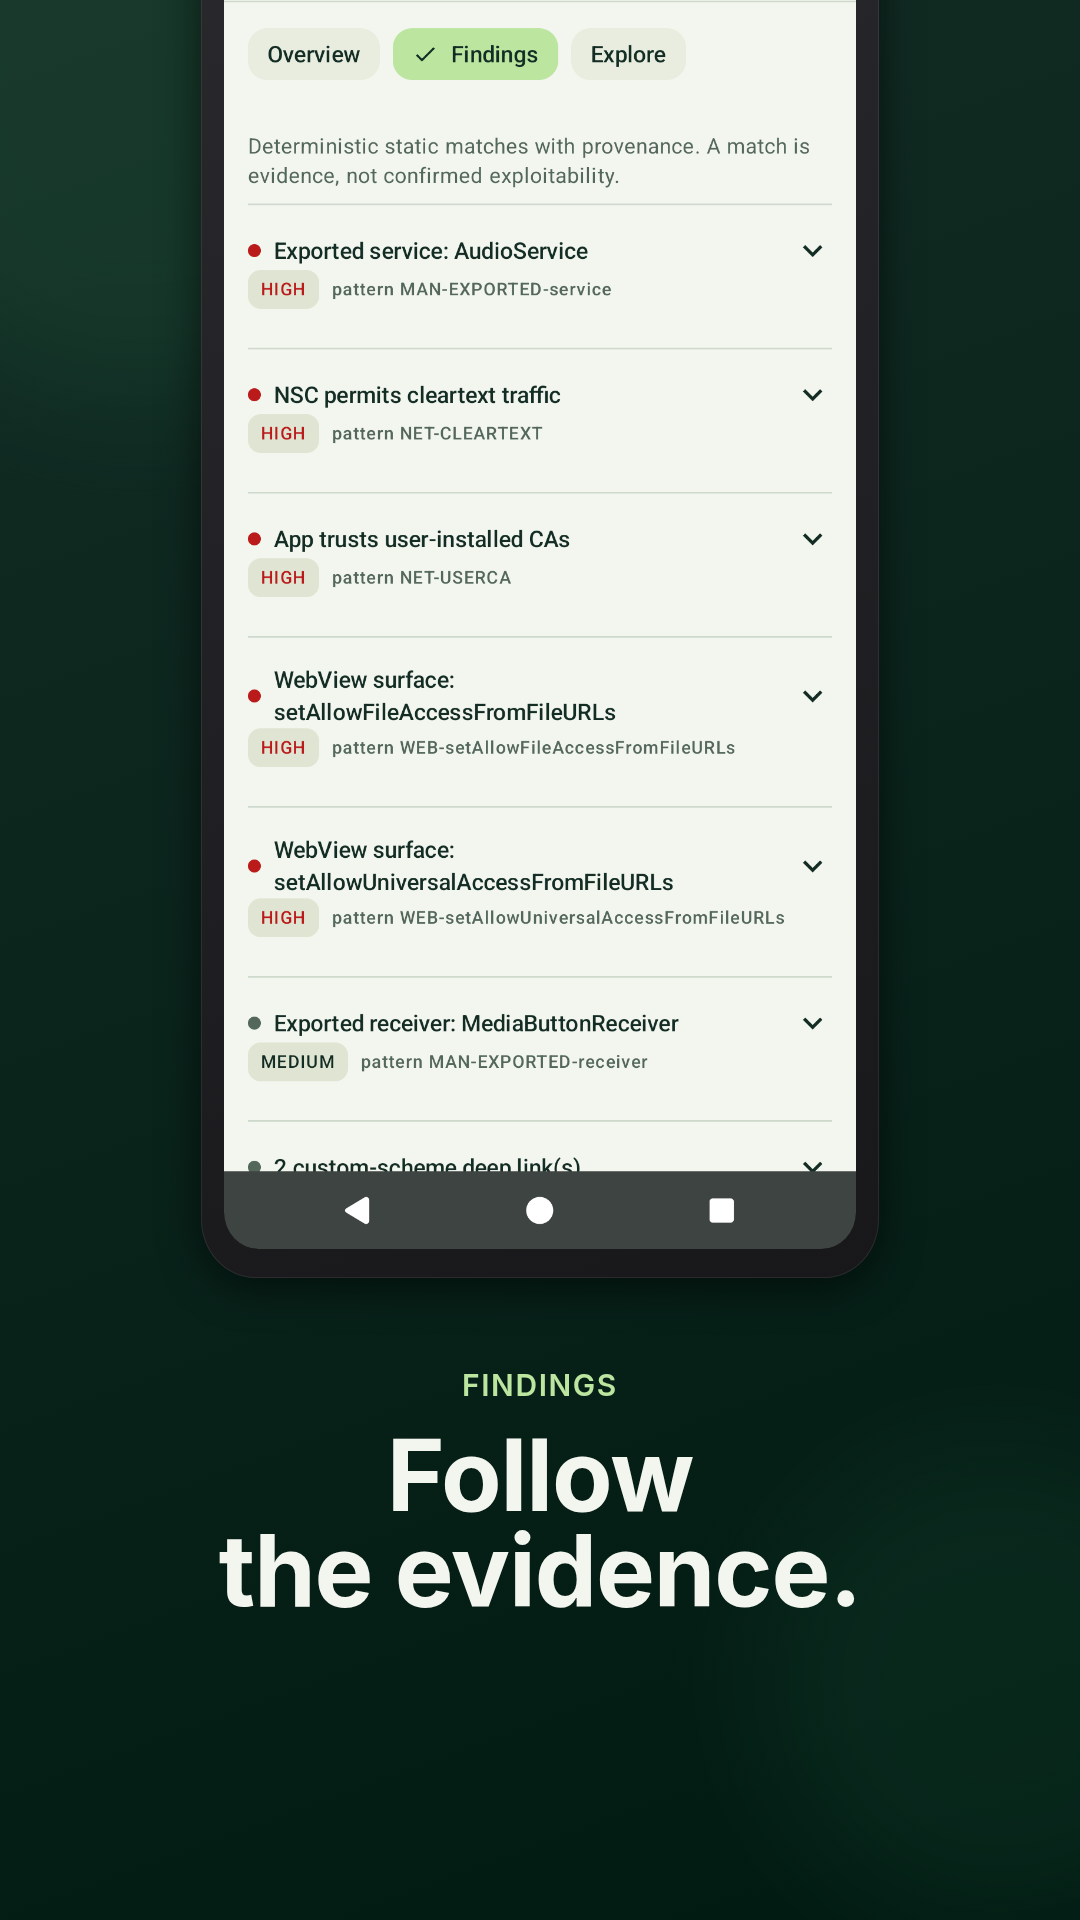
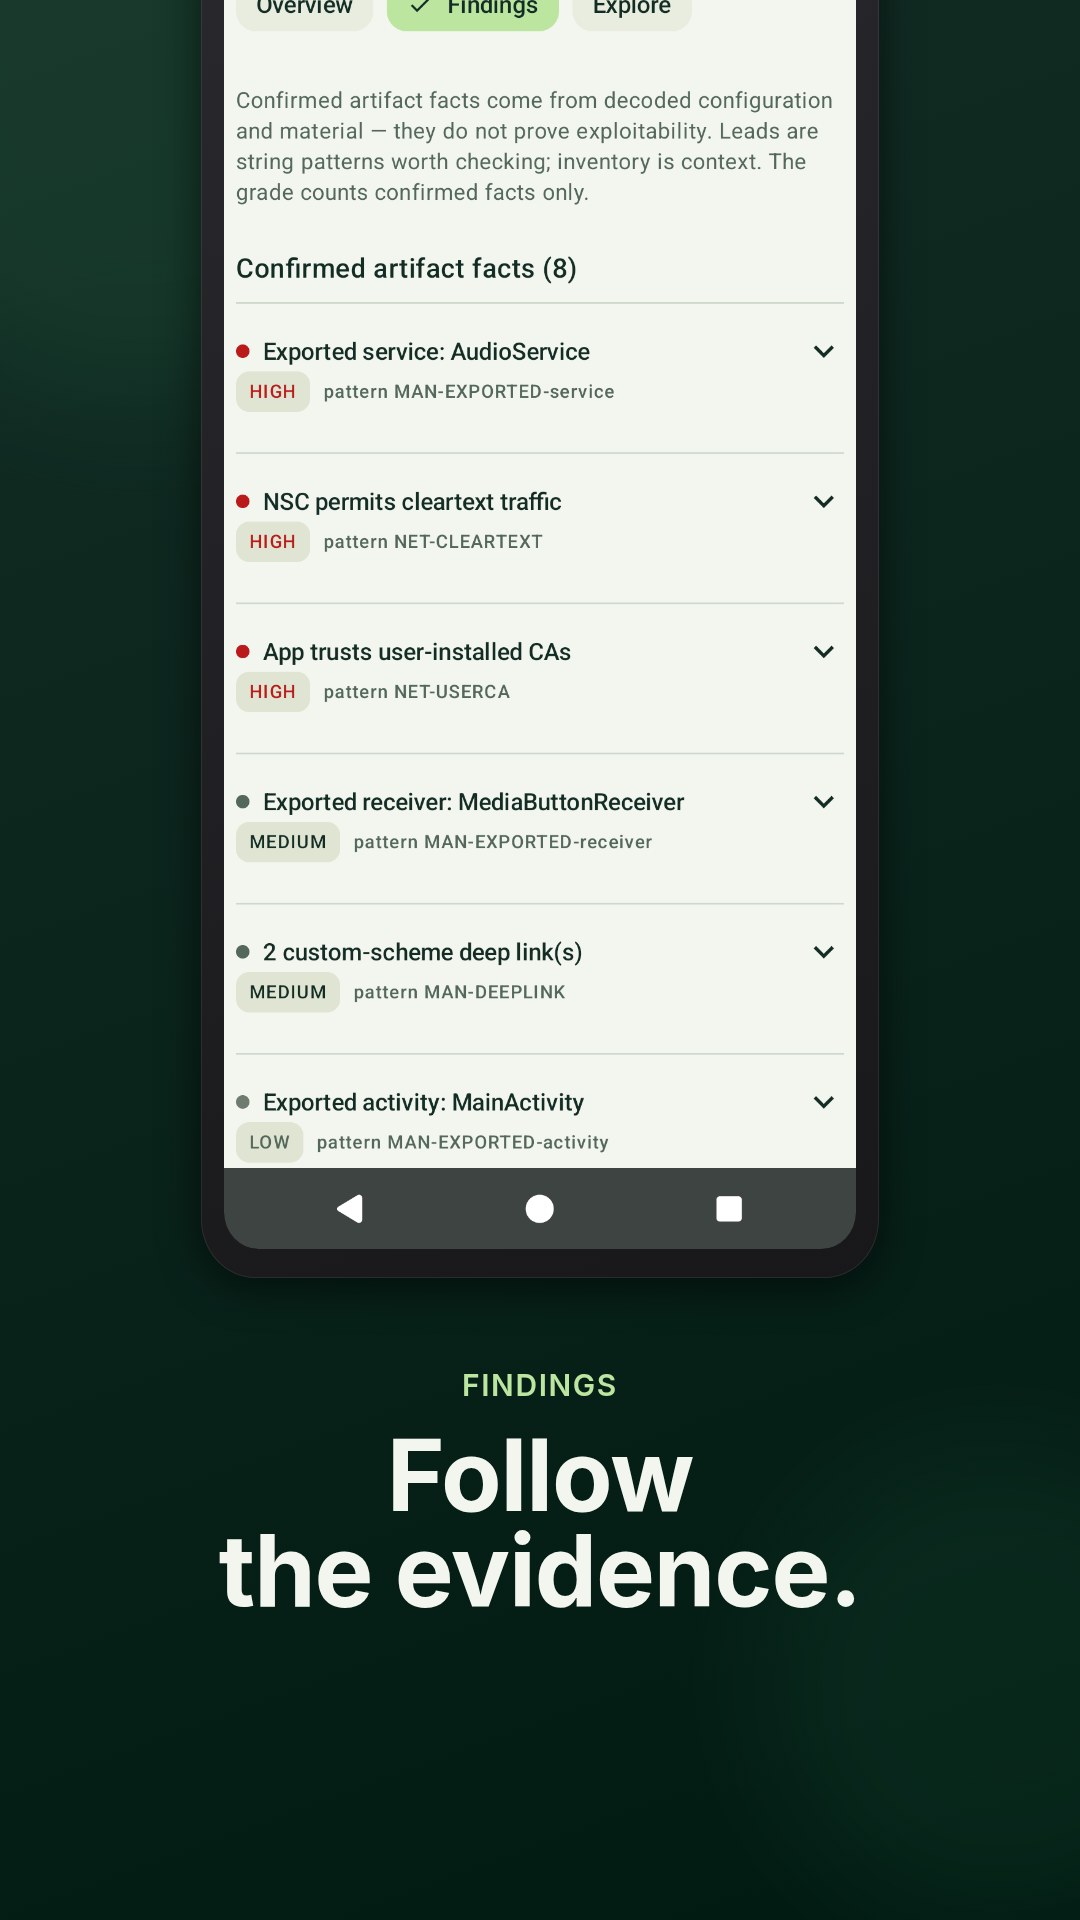
docs(play): refresh store screenshots from verified 0.4.0 device
Replace the six phone screenshots with captures taken on a Redmi Note 9 Pro running 0.4.0 (versionCode 10): inventory, grade D with 8 confirmed / 9 leads / 6 inventory, confidence-grouped findings, endpoints, settings and privacy. Slide 4 is relabelled ENDPOINTS because that screen shows recovered hosts and candidate routes. The deck JSON, cropped sources and a 0.4.0 capture set are recorded so the deck can be rebuilt.

Changed region(s): [[0.2139, 0.0, 0.7639, 0.6562], [0.6417, 0.625, 0.6722, 0.6562]]

diff --git a/docs/play/screenshot-editor/README.md b/docs/play/screenshot-editor/README.md
@@ -13,21 +13,26 @@ app-store-screenshots skill template, not hand-drawn HTML. To edit the deck:
    accent #285f42, muted #53675b, accentAlt #bce6a0
    ```
 
-3. Source captures (1080×2400, real device, Nov 18 2026) live in `../raw/`. Flatten
-   them to RGB into the template's
-   `public/screenshots/android/phone/en/{01-inventory,02-grade,03-findings,04-services,05-settings,06-privacy}.png`
-   and the icon to `public/app-icon.png`.
+3. Source captures: `sources/` holds the current 1080×2304 crops (status bar trimmed
+   from the raw 1080×2400 captures). Originals from the 0.4.0 on-device verification are
+   in `../raw/0.4.0/`. Copy `sources/*.png` into the template's
+   `public/screenshots/android/phone/en/` and `../icon-512.png` to `public/app-icon.png`.
 4. `bun run build` then `bun dev`, open the editor, press **Export bundle**.
 5. Export zip contains one 1080×1920 PNG per slide at
    `android/android/1080x1920/en/` — copy them over `docs/play/screenshots/fg-0N-*.png`
    (order: 01-inventory, 02-grade, 03-findings, 04-services, 05-settings, 06-privacy).
 6. Upload: `python3 docs/play/upload.py --key <key> images --type phoneScreenshots
-   --files docs/play/screenshots/fg-0[1-6]-*.png`
+   --files <each png listed explicitly>`. List the six files; a `[1..6]` shell glob
+   matches only `01` and `06` in zsh/bash and replaces the set with two images.
 
 Deck facts: 6 slides, layouts hero / device-bottom / device-top / device-bottom /
 device-top / device-bottom (no adjacent repeats), inverted on slides 3 and 6,
-connectedCanvas false. `export_run.py` is the headless re-export helper
-(Playwright clicks Export bundle and saves the zip).
+connectedCanvas false. Labels INVENTORY / GRADE / FINDINGS / ENDPOINTS / CONTROLS /
+PRIVACY. Device-top slides carry caption transforms `{x:86.4,y:1363.2,width:907.2,
+height:537.6}` so the caption clears the phone bezel. `export_run.py` is the headless
+re-export helper (Playwright clicks Export bundle and saves the zip).
 
-Captures predate 0.4.0 UI (flat severity list, no confidence groups). Re-capture
-on-device before replacing them with new-UI versions.
+Source captures are 0.4.0 (2026-11-21, Redmi Note 9 Pro, LineageOS 22): confidence
+groups ("8 confirmed · 9 leads · 6 inventory"), grade D, Settings → About shows
+"0.4.0 (10)". Slide 4 label is ENDPOINTS because that screen shows recovered hosts and
+candidate routes. Re-capture on-device if the UI or app version changes.
